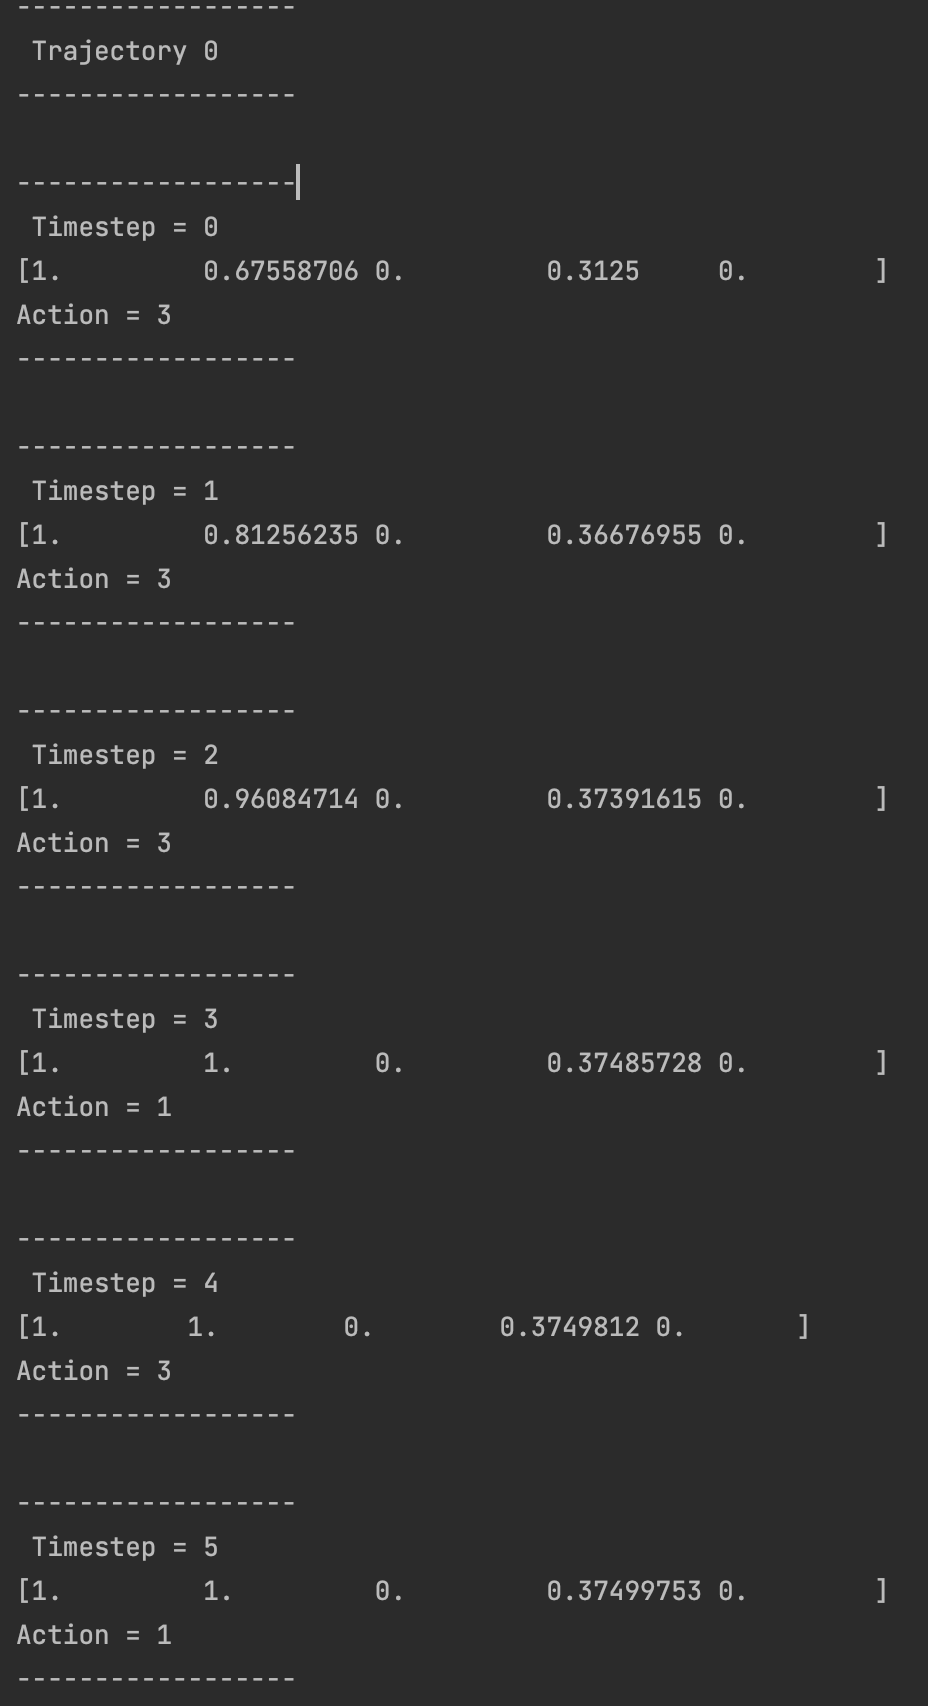
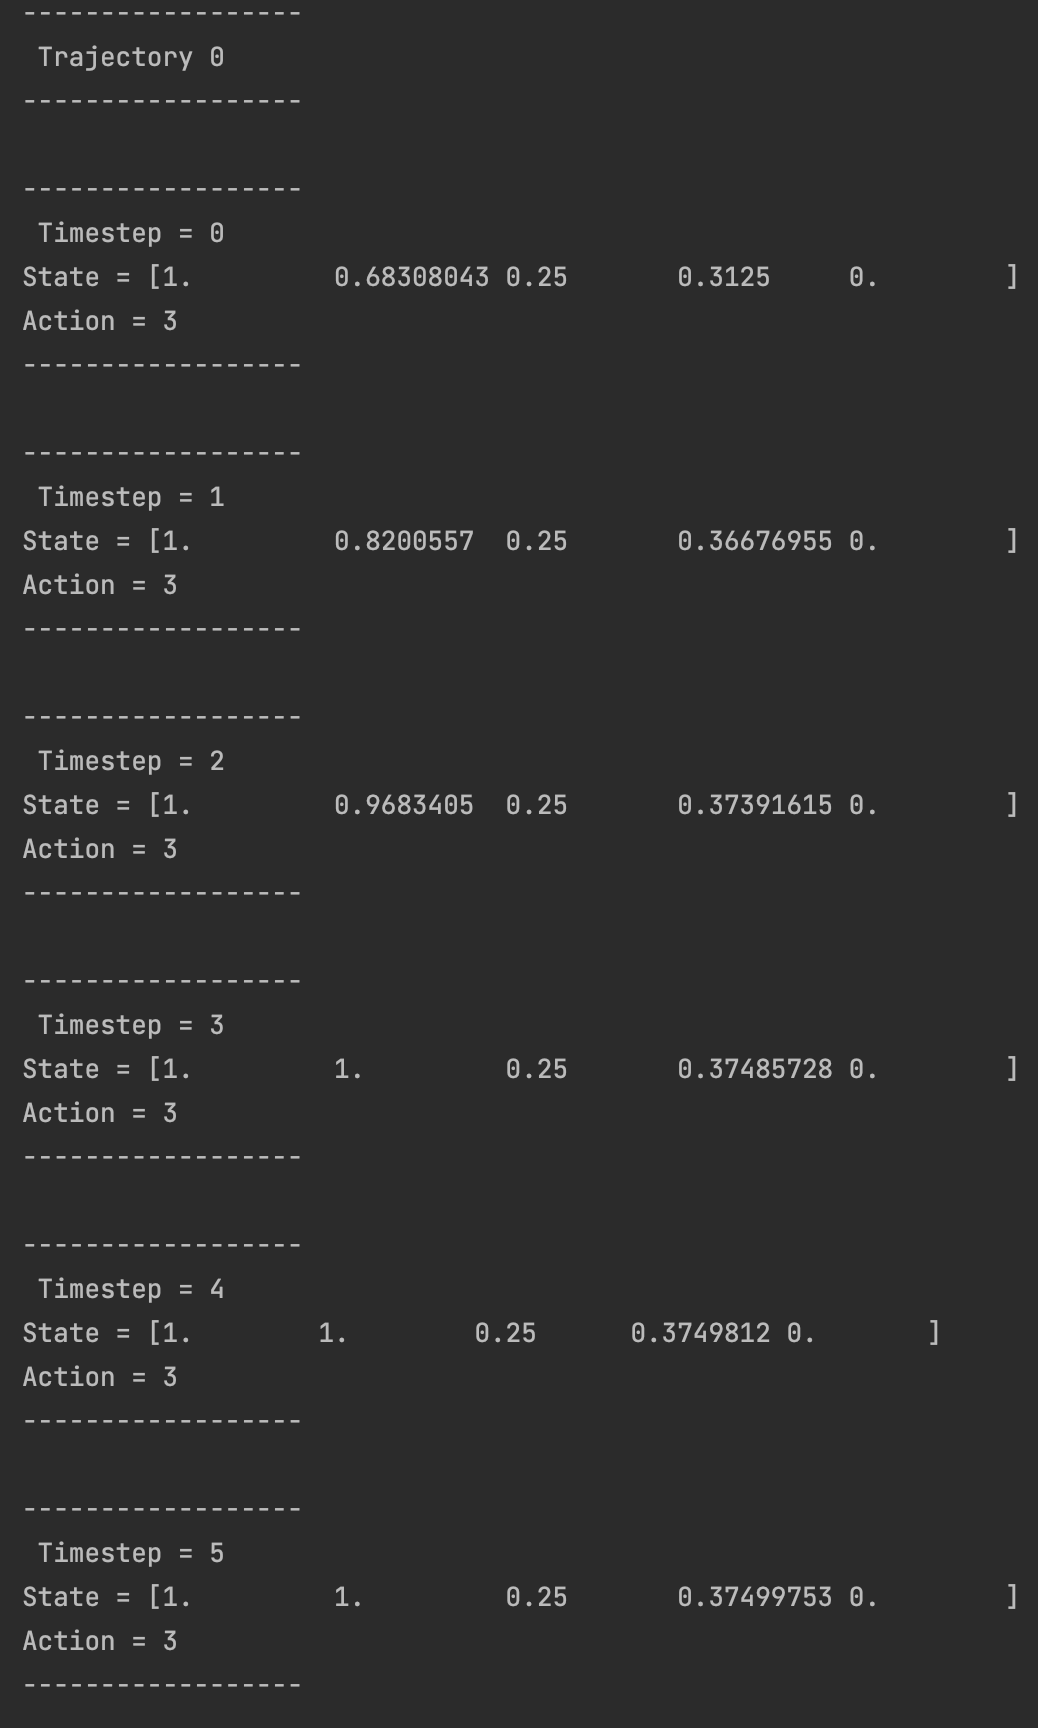
added trajectory examples

diff --git a/src/envs/custom/gridworld.py b/src/envs/custom/gridworld.py
@@ -128,12 +128,12 @@ class Gridworld(gym.Env):
         pass
 
     def render(self):
-        self.render_state(self.state, self.steps)
+        self.render_state(self.state)
 
-    def render_state(self, state, steps=0):
+    def render_state(self, state):
         agent_x, agent_y, goal_x, goal_y, orient = state
         rendering = '---------------\n'
-        rendering += 'Step = {} State = {}\n'.format(steps, state)
+        rendering += 'State = {}\n'.format(state)
 
         for j in range(self.world_dim):
             row = ''

diff --git a/src/envs/custom/highway.py b/src/envs/custom/highway.py
@@ -44,7 +44,7 @@ class CustomHighwayEnv(highway_env.HighwayEnvFast):
         super().render()
 
     def render_state(self, state):
-        print(state.flatten()[0:5])
+        print('State = {}'.format(state.flatten()[0:5]))
 
     def augment_reward(self, action, state):
         running_rew = 0

diff --git a/overview.md b/overview.md
@@ -119,8 +119,8 @@ Outcome-based feedback was implemented and change in position and orientation ha
 State = [agent's x coordinate, agent's y coordinate, goal's x coordinate, goal's y coordinate, orientation]
 
 <p align="center"> 
-   <img src="img/gridworld_trajectory_1.png" width="480" class="center">
-   <img src="img/gridworld_trajectory_2.png" width="480" class="center">
+   <img src="img/gridworld_trajectory_1.png" width="300" class="center">
+   <img src="img/gridworld_trajectory_2.png" width="300" class="center">
 <p>
 
 **Results:** action distribution through successful episodes before vs after reward shaping:
